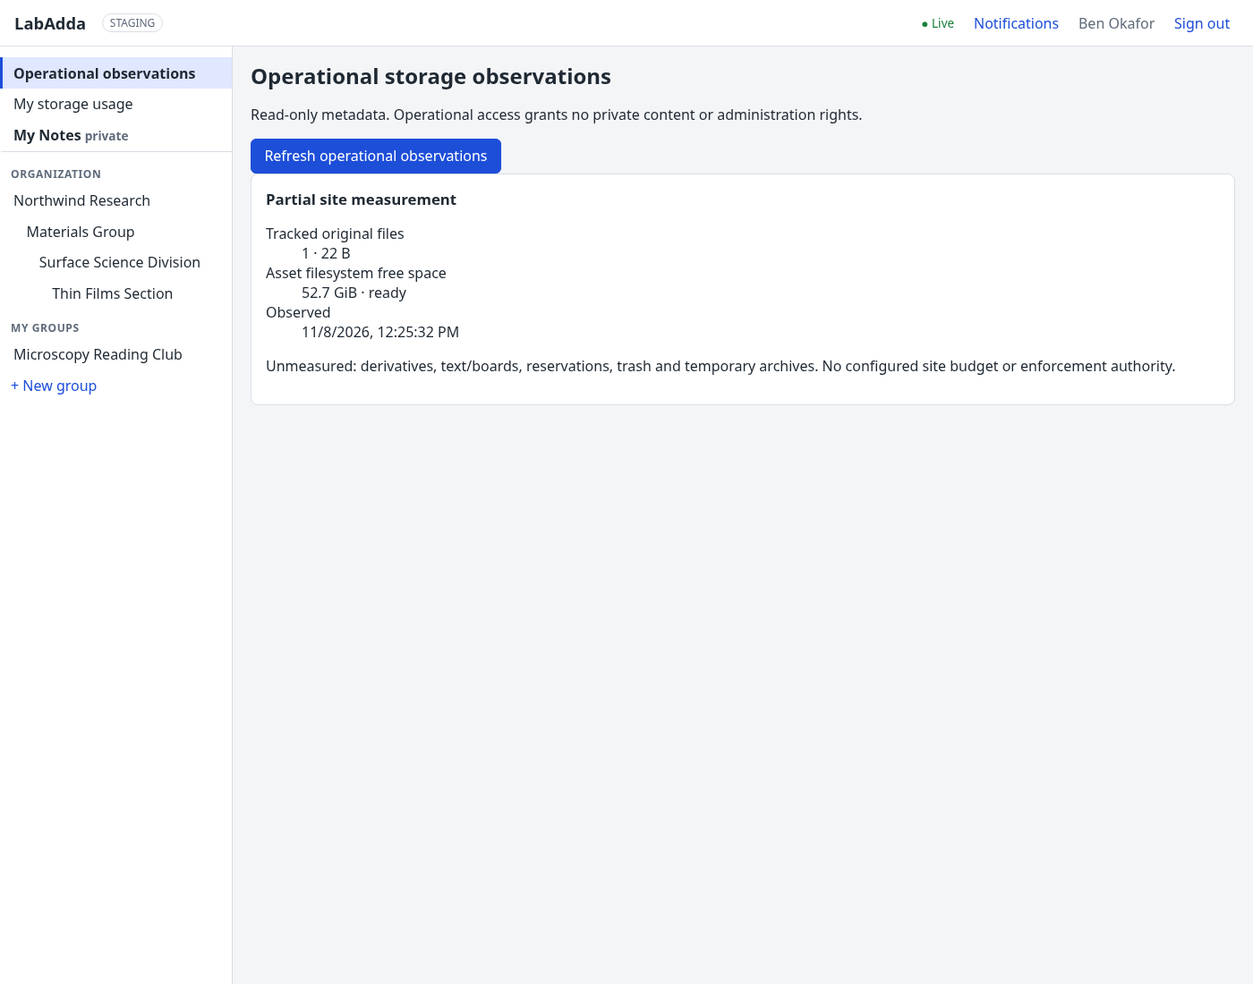
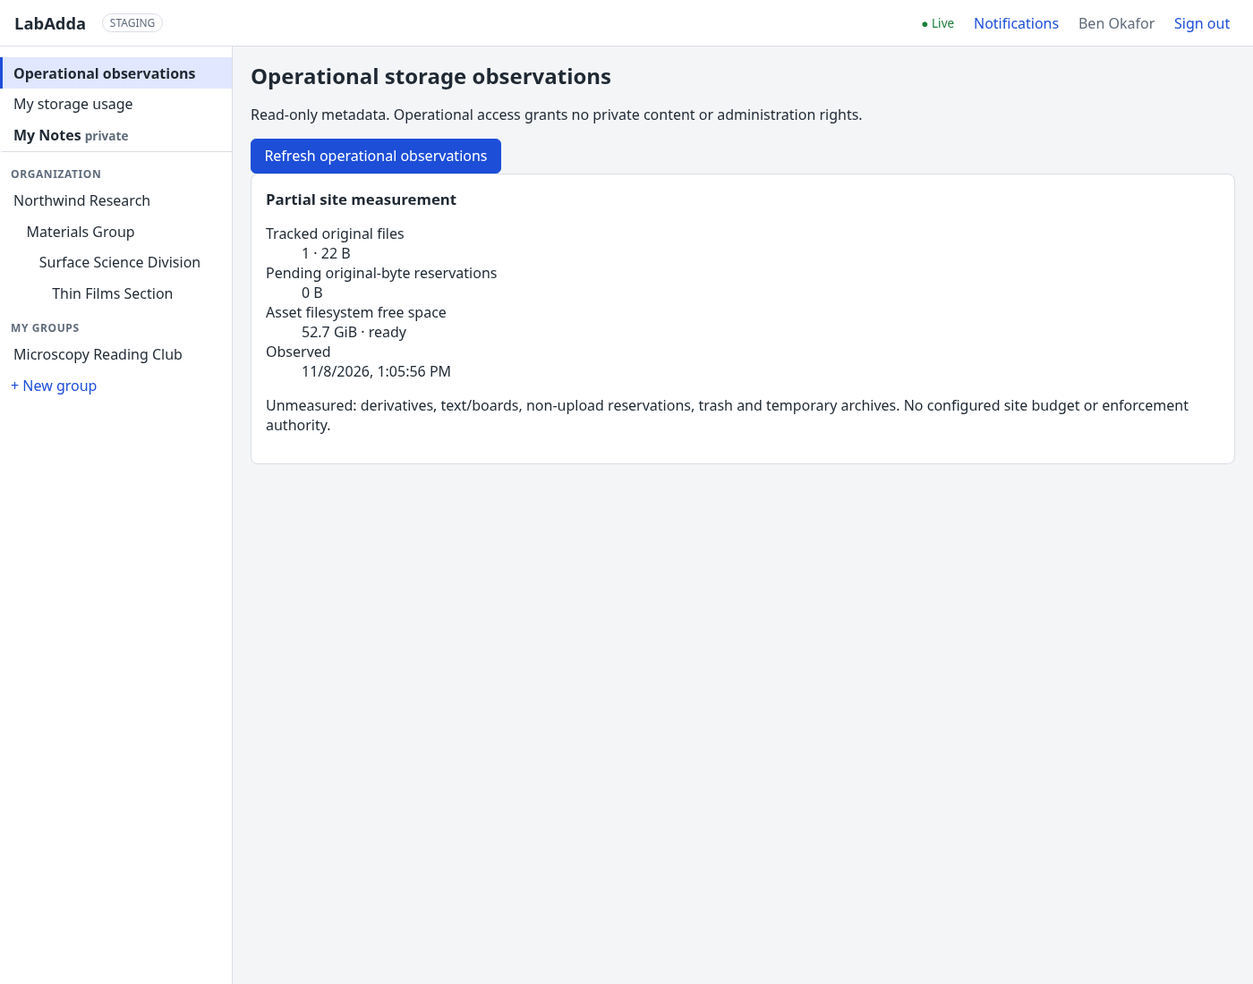
fix: enforce snapshot original-byte admission and durable asset publication

Changed region(s): [[0.215, 0.2782, 0.9521, 0.4327]]

diff --git a/backend/labadda/api/board.py b/backend/labadda/api/board.py
@@ -25,8 +25,11 @@ from sqlalchemy.orm import Session
 
 from .. import audit, policy
 from ..boardstate import epoch_ops, latest_snapshot, render_png, state_at, state_cache, undo_target
-from ..deps import Actor, board_actor, current_actor, get_db
-from ..errors import Conflict, Forbidden, Invalid, NotFound
+from ..deps import Actor, board_actor, current_actor, get_db, get_settings
+from ..errors import ApiError, Conflict, Forbidden, Invalid, NotFound
+from ..config import Settings
+from ..identity_locks import lock_identity
+from ..reservations import check_original_capacity
 from ..models import Asset, Board, BoardOp, Post, Workspace
 from ..serialize import iso
 from ..storage import AssetStore
@@ -304,7 +307,13 @@ def list_destinations(workspace_id: uuid.UUID, actor: Actor = Depends(current_ac
 
 @router.post("/workspaces/{workspace_id}/board/snapshots", status_code=201)
 def publish_snapshot(workspace_id: uuid.UUID, body: SnapshotBody, request: Request,
-                     actor: Actor = Depends(current_actor), db: Session = Depends(get_db)):
+                     actor: Actor = Depends(current_actor), db: Session = Depends(get_db),
+                     settings: Settings = Depends(get_settings)):
+    from types import SimpleNamespace
+    identity = SimpleNamespace(id=actor.id, session=SimpleNamespace(id=actor.session.id))
+    # Generated originals share the same user serialization as upload admission.
+    # This synchronous endpoint already runs in a worker thread.
+    lock_identity(db, identity, settings)
     # Fresh authorization on both ends at publish time.
     source = policy.require_read(db, actor.user, workspace_id).workspace
     existing = db.scalar(select(Post).where(Post.author_id == actor.id, Post.client_id == body.client_id))
@@ -312,6 +321,7 @@ def publish_snapshot(workspace_id: uuid.UUID, body: SnapshotBody, request: Reque
         if existing.source_workspace_id != workspace_id or existing.workspace_id != body.destination_id \
                 or existing.source_revision != body.revision or existing.body != body.summary:
             raise Conflict("client_id_reused", "This request ID was already used for different content.")
+        policy.require_read(db, actor.user, existing.workspace_id)
         return {"post_id": str(existing.id), "workspace_id": str(existing.workspace_id), "duplicate": True}
     allowed = {w.id for w in snapshot_destinations(db, actor, source)}
     if body.destination_id not in allowed:
@@ -321,10 +331,16 @@ def publish_snapshot(workspace_id: uuid.UUID, body: SnapshotBody, request: Reque
         raise Invalid("confirmation_required",
                       f"Confirm that everyone who can read {dest.name} will see this snapshot.")
     png = _render(db, request, workspace_id, body.revision, body.region)
+    check_original_capacity(db, identity, settings, len(png))
     store: AssetStore = request.app.state.assets
     stored = store.save(png, "image/png")
+    candidate_id = uuid.uuid4()
+    commit_started = False
     try:
-        post = Post(workspace_id=dest.id, author_id=actor.id, kind="discussion", body=body.summary,
+        # Time-based session expiry can pass while render/storage runs even
+        # though revocation updates are serialized by the held row locks.
+        lock_identity(db, identity, settings)
+        post = Post(id=candidate_id, workspace_id=dest.id, author_id=actor.id, kind="discussion", body=body.summary,
                     client_id=body.client_id, source_workspace_id=source.id, source_revision=body.revision)
         db.add(post)
         db.flush()
@@ -334,10 +350,30 @@ def publish_snapshot(workspace_id: uuid.UUID, body: SnapshotBody, request: Reque
         audit.record(db, actor=actor.user, action="board.snapshot_publish", scope_type="workspace",
                      scope_id=dest.id, target_id=post.id, source=source.id, revision=body.revision,
                      broader=dest.id != source.id)
+        db.flush()
+        lock_identity(db, identity, settings)
+        commit_started = True
         db.commit()
     except Exception:
         db.rollback()
-        store.delete(stored.storage_key)
-        raise
-    request.app.state.hub.publish(dest.id, {"type": "noticeboard.changed", "workspace_id": str(dest.id)})
-    return {"post_id": str(post.id), "workspace_id": str(dest.id), "duplicate": False}
+        if not commit_started:
+            store.delete(stored.storage_key)
+            raise
+        confirmed = False
+        try:
+            with request.app.state.session_factory() as fresh:
+                durable = fresh.get(Post, candidate_id)
+                if durable is not None:
+                    user = lock_identity(fresh, identity, settings)
+                    policy.require_read(fresh, user, workspace_id)
+                    policy.require_read(fresh, user, body.destination_id)
+                    confirmed = True
+        except ApiError:
+            raise
+        except Exception:
+            pass
+        if not confirmed:
+            raise ApiError('snapshot_commit_unknown', 'Snapshot outcome is uncertain. Storage was retained for inspection; check the noticeboard before retrying.', status=503)
+    destination_id = body.destination_id
+    request.app.state.hub.publish(destination_id, {"type": "noticeboard.changed", "workspace_id": str(destination_id)})
+    return {"post_id": str(candidate_id), "workspace_id": str(destination_id), "duplicate": False}

diff --git a/backend/tests/test_snapshot_admission.py b/backend/tests/test_snapshot_admission.py
@@ -1,0 +1,111 @@
+"""Generated original assets share pilot admission and uncertain-commit safety."""
+from dataclasses import replace
+from datetime import timedelta
+
+from fastapi.testclient import TestClient
+from sqlalchemy import func, select
+
+from labadda.app import create_app
+from labadda.models import Asset, Post, UploadReservation
+from labadda.security import utcnow
+from tests.conftest import Api
+from tests.test_board_p3 import publish
+from tests.test_chat_board import stroke
+
+
+def test_snapshot_cannot_bypass_a_tiny_original_quota(settings, ids, db_factory):
+    with TestClient(create_app(replace(settings,user_quota_bytes=1))) as client:
+        ben=Api(client,settings.api_prefix);assert ben.login('ben').status_code==200
+        w=ids['workspaces']['section_a']
+        assert ben.post(f'/workspaces/{w}/board/ops',json=stroke('snapshot-quota-stroke','fixture-line')).status_code==200
+        refused=publish(ben,w,w,1)
+        assert refused.status_code==422 and refused.json()['error']['code']=='quota_exceeded'
+    with db_factory() as db:
+        assert db.scalar(select(func.count()).select_from(Asset))==0
+        assert db.scalar(select(func.count()).select_from(Post))==0
+
+
+def test_pending_upload_capacity_is_respected_by_snapshot(as_user, settings, ids, db_factory):
+    ben=as_user('ben');w=ids['workspaces']['section_a']
+    assert ben.post(f'/workspaces/{w}/board/ops',json=stroke('snapshot-pending-stroke','fixture-line')).status_code==200
+    with db_factory() as db:
+        db.add(UploadReservation(user_id=ids['users']['ben'],bytes=settings.user_quota_bytes,
+            created_at=utcnow(),expires_at=utcnow()+timedelta(minutes=10)));db.commit()
+    refused=publish(ben,w,w,1)
+    assert refused.status_code==422 and refused.json()['error']['code']=='quota_exceeded'
+
+
+def test_snapshot_lost_commit_reply_preserves_published_bytes(as_user, ids, app, db_factory, monkeypatch):
+    from sqlalchemy.orm import Session
+    ben=as_user('ben');w=ids['workspaces']['section_a']
+    assert ben.post(f'/workspaces/{w}/board/ops',json=stroke('snapshot-commit-stroke','fixture-line')).status_code==200
+    original=Session.commit
+    def commit_then_fail(db):
+        publishing=any(isinstance(row,Post) for row in db.identity_map.values())
+        original(db)
+        if publishing: raise RuntimeError('synthetic lost snapshot commit reply')
+    monkeypatch.setattr(Session,'commit',commit_then_fail)
+    response=publish(ben,w,w,1)
+    assert response.status_code==201
+    with db_factory() as db:
+        asset=db.scalar(select(Asset).where(Asset.post_id==response.json()['post_id']))
+        assert asset is not None
+        assert app.state.assets.path(asset.storage_key).is_file()
+    assert publish(ben,w,w,1).json()['duplicate']
+
+
+def test_snapshot_unknown_commit_retains_unconfirmed_files(as_user, ids, app, db_factory, monkeypatch):
+    from sqlalchemy.orm import Session
+    ben=as_user('ben');w=ids['workspaces']['section_a']
+    assert ben.post(f'/workspaces/{w}/board/ops',json=stroke('snapshot-unknown-stroke','fixture-line')).status_code==200
+    original=Session.commit
+    def fail(db):
+        if any(isinstance(row,Post) for row in db.identity_map.values()):
+            raise RuntimeError('synthetic unknown snapshot commit')
+        original(db)
+    monkeypatch.setattr(Session,'commit',fail)
+    response=publish(ben,w,w,1)
+    assert response.status_code==503 and response.json()['error']['code']=='snapshot_commit_unknown'
+    assert list(app.state.settings.asset_dir.rglob('*.bin'))
+    with db_factory() as db:
+        assert db.scalar(select(func.count()).select_from(Post))==0
+
+
+def test_expiry_during_snapshot_storage_prevents_publish(as_user, ids, app, db_factory, monkeypatch):
+    from labadda import security
+    from datetime import timedelta
+    ben=as_user('ben');w=ids['workspaces']['section_a']
+    assert ben.post(f'/workspaces/{w}/board/ops',json=stroke('snapshot-expiry-stroke','fixture-line')).status_code==200
+    original=app.state.assets.save
+    def expire(*args):
+        stored=original(*args)
+        future=security.utcnow()+timedelta(days=1)
+        monkeypatch.setattr(security,'utcnow',lambda:future)
+        return stored
+    monkeypatch.setattr(app.state.assets,'save',expire)
+    assert publish(ben,w,w,1).status_code==401
+    with db_factory() as db:
+        assert db.scalar(select(func.count()).select_from(Post))==0
+        assert db.scalar(select(func.count()).select_from(Asset))==0
+    assert not list(app.state.settings.asset_dir.rglob('*.bin'))
+
+
+def test_asset_publication_syncs_new_directory_ancestry(tmp_path, monkeypatch):
+    import os
+    import stat
+    from pathlib import Path
+    from labadda.storage import AssetStore
+    root=tmp_path/'new-assets'
+    store=AssetStore(root)
+    synced=set()
+    original=os.fsync
+    def track(fd):
+        if stat.S_ISDIR(os.fstat(fd).st_mode):
+            synced.add(Path(os.readlink(f'/proc/self/fd/{fd}')).resolve())
+        return original(fd)
+    monkeypatch.setattr(os,'fsync',track)
+    stored=store.save(b'%PDF-1.4\nfixture\n%%EOF','application/pdf')
+    assert store.path(stored.storage_key).parent.resolve() in synced
+    assert root.resolve() in synced
+    assert tmp_path.resolve() in synced
+    assert store.path(stored.storage_key).stat().st_mode & 0o777 == 0o600

diff --git a/backend/labadda/reservations.py b/backend/labadda/reservations.py
@@ -14,8 +14,8 @@ from .security import utcnow
 RESERVATION_SECONDS = 600
 
 
-def reserve_upload(db, actor, settings, size):
-    lock_identity(db, actor, settings)
+def check_original_capacity(db, actor, settings, size):
+    """Caller must hold the user identity lock through its Asset commit."""
     now = utcnow()
     # Only metadata expires here; do not guess which filesystem paths are safe
     # to delete after an interrupted worker. Orphan reconciliation is separate.
@@ -25,7 +25,13 @@ def reserve_upload(db, actor, settings, size):
     pending = db.scalar(select(func.coalesce(func.sum(UploadReservation.bytes),0)).where(
         UploadReservation.user_id == actor.id, UploadReservation.expires_at > now))
     if used + pending + size > settings.user_quota_bytes:
-        raise Invalid('quota_exceeded', 'Your upload allowance is exhausted, including pending uploads. Retry after they finish or contact an administrator.')
+        raise Invalid('quota_exceeded', 'Your original-file allowance is exhausted, including pending uploads. Retry after they finish or contact an administrator.')
+
+
+def reserve_upload(db, actor, settings, size):
+    lock_identity(db, actor, settings)
+    check_original_capacity(db, actor, settings, size)
+    now = utcnow()
     row = UploadReservation(user_id=actor.id, bytes=size, created_at=now,
                             expires_at=now+timedelta(seconds=RESERVATION_SECONDS))
     db.add(row); db.flush(); reservation_id = row.id

diff --git a/backend/labadda/storage.py b/backend/labadda/storage.py
@@ -70,6 +70,11 @@ class AssetStore:
             has_preview = True
         key = secrets.token_urlsafe(24)
         target = self.path(key)
+        missing_directories = []
+        directory = target.parent
+        while not directory.exists():
+            missing_directories.append(directory)
+            directory = directory.parent
         target.parent.mkdir(parents=True, exist_ok=True)
         tmp = target.with_suffix(".tmp")
         owned = []
@@ -89,11 +94,15 @@ class AssetStore:
                 owned.append(preview)
                 with os.fdopen(fd, "wb") as stream:
                     stream.write(preview_bytes); stream.flush(); os.fsync(stream.fileno())
-            directory = os.open(target.parent, os.O_RDONLY | os.O_DIRECTORY)
-            try:
-                os.fsync(directory)
-            finally:
-                os.close(directory)
+            # Sync both file entries and each newly created directory's entry
+            # in its parent, up through the previously existing ancestor.
+            directories = [target.parent, *(path.parent for path in missing_directories)]
+            for path in dict.fromkeys(directories):
+                directory = os.open(path, os.O_RDONLY | os.O_DIRECTORY)
+                try:
+                    os.fsync(directory)
+                finally:
+                    os.close(directory)
         except Exception:
             for path in reversed(owned):
                 try:

diff --git a/backend/labadda/models.py b/backend/labadda/models.py
@@ -245,6 +245,7 @@ class Asset(Base):
         CheckConstraint("status = 'provisional' or post_id is not null or board_workspace_id is not null",
                         name="ck_asset_committed_owner"),
         CheckConstraint("post_id is null or board_workspace_id is null", name="ck_asset_single_owner"),
+        Index("ix_assets_owner", "owner_id"),
         Index("ix_assets_post", "post_id"),
         Index("ix_assets_board", "board_workspace_id"),
     )

diff --git a/backend/labadda/api/files.py b/backend/labadda/api/files.py
@@ -74,6 +74,7 @@ def _persist_upload(request, db, actor, settings, data, content_type, filename):
                       sha256=stored.sha256, has_preview=stored.has_preview)
         db.add(asset)
         db.flush()
+        lock_identity(db, identity, settings)
         commit_started = True
         db.commit()
         return asset_json(asset, settings.api_prefix)

diff --git a/backend/migrations/versions/0011_asset_owner_index.py b/backend/migrations/versions/0011_asset_owner_index.py
@@ -1,0 +1,14 @@
+"""Index original-byte admission by stable contributor identity."""
+from alembic import op
+revision = '0011'
+down_revision = '0010'
+branch_labels = None
+depends_on = None
+
+
+def upgrade():
+    op.create_index('ix_assets_owner','assets',['owner_id'])
+
+
+def downgrade():
+    op.drop_index('ix_assets_owner',table_name='assets')

diff --git a/ROADMAP.md b/ROADMAP.md
@@ -82,3 +82,4 @@ Add an entry at the end of each meaningful tranche. Mark status as planned, acti
 | P5.1 · Referenced-file reconciliation · implemented | Added bounded operator CLI inspection, schema 0008 receipt/audit, admin API/UI, original size/hash verification and separate preview-byte measurement. Eight inspection tests plus timestamp regression pass; full suite 207 backend tests, recovery/drift, 11 frontend tests/build and 20 root/prefix browser checks passed. | Preview integrity, live snapshot consistency, orphan enumeration, full ledger/reservations and policy activation remain explicitly unverified/unimplemented. No repair/purge. Time bound is cooperative. | Continue capability separation and durable ledger work within P5.1, retaining inactive enforcement. |
 | P5.1 · Narrow operational capability · implemented | Added explicit expiring usage.read delegations with admin password confirmation, reason/audit, CSRF and rate limits; observers receive metadata only and cannot administer identities/policies or read private notes/files. Web grant/revoke and Operations page work at root/prefix. Compatible actor-row locking avoids grant/identity-update FK deadlocks; active-first listing and selected-account revoke prevent hidden active grants. Recovery clears copied delegations. Full serial validation: 214 backend tests with real recovery/drift, 11 frontend tests/build; 18 governance plus 12 delegation browser checks passed. | Only one narrow capability is implemented; general capability/approval framework and complete accounting remain future gates. Current pilot quotas are unchanged. Development/research instances migrated to head 0009 and restarted without resetting their data. | Continue transactional reservation/ledger foundations and reconciliation within P5.1 before portable export and enforcement gates. |
 | P5.1 · Pending upload admission · implemented | Added schema 0010 pending original-byte reservations under identity serialization, same-snapshot usage reporting, expiry and post-storage authority checks, atomic reservation-to-Asset transition, worker-thread persistence and recovery clearing. Hardened partial filesystem writes/no-clobber publication and uncertain-commit handling. Ten admission regressions; full suite 224 backend, recovery/drift, 11 frontend tests/build; root/prefix governance18 and delegation12 browser checks passed. | Existing pilot quota only. Generated snapshots, all other content classes, site/derivative budgets, idempotency keys and orphan reconciliation are still outside this protocol. No new proposed-policy enforcement or retention. | Bring generated snapshots into original-byte admission, then continue full ledger/reconciliation before P5.2 dependencies. |
+| P5.1 · Generated-original admission · implemented | Published board snapshots now serialize original-byte admission with uploads, account for pending reservations, recheck session expiry after storage/precommit and preserve uncertain committed bytes. Added contributor index0011 and durable directory ancestry synchronization. Six new focused cases; full suite230 backend/recovery/drift,11 frontend/build; 101 root/prefix browser checks across governance/delegation/collaboration/receipts passed. [Current status](docs/P5-PROGRESS.md). | Full ledger, physical/site/derivative/text accounting, idempotency keys and complete reconciliation remain open. Proposed policies and retention remain inactive. No general membership-lock redesign is claimed. | Continue original-write idempotency and complete P5.1 accounting/capability gates before P5.2 portable archives. |

diff --git a/docs/P5-PROGRESS.md b/docs/P5-PROGRESS.md
@@ -38,3 +38,11 @@ Final capability-slice validation: **214 backend tests**, real recovery and migr
 Schema 0010 adds durable pending reservations for the existing environment-controlled upload allowance. Measured bytes reserve before storage, then atomically become Asset bytes; expiry/revocation checks precede commit. The user sees pending originals separately. Ten upload-admission tests cover parallel oversubscription, invalid input, stale/expiring reservations, lost sessions, definite pre-commit rollback, successful commits with lost replies, unknown outcomes, partial preview writes and no-clobber storage collisions. Filesystem and DB work run in a worker thread; current identity locking is shared with governance without granting administration rights.
 
 Validation: full serial suite **224 backend tests**, real PostgreSQL recovery/drift checks, **11 frontend tests**, production build, 18 governance and 12 delegation browser checks passed. Recovery now verifies copied pending capacity is cleared alongside operational grants. These are upload-versus-upload guarantees only: board-generated snapshots, full physical/derivative/text/site charging, upload idempotency keys and orphan reconciliation remain incomplete. An unconfirmed commit never licenses unlinking possibly committed data; inspect the retained state before retrying.
+
+## Generated snapshots and durable storage publication
+
+Published board snapshots now join original-byte admission under the same user lock and include pending upload bytes. This supersedes the prior upload-only writer limitation: both current Asset creation paths participate in the environment-controlled original-byte allowance. Existing snapshot retries retain their current destination-read check. Session validity is checked after render/storage and just before commit; a slow operation cannot rely only on its initial authentication. Snapshot commit uncertainty follows the same conservative file-retention principle as uploads. This is not full logical/physical accounting, new proposed-policy enforcement or a general membership-lock redesign.
+
+Schema 0011 indexes originals by contributor. Storage publication fsyncs newly created directory ancestry as well as the file/shard and refuses to clobber existing objects. Six focused snapshot/storage tests cover tiny quota, active pending uploads, lost/unknown commit replies, expiry during storage and actual directory synchronization. Full validation passed **230 backend tests**, recovery/drift, **11 frontend tests** and production build. Final authority-guard additions also passed the 16 focused snapshot/upload regressions on a separately provisioned disposable database. Browser evidence passed **18 governance + 12 capability + 69 existing collaboration/touch + 2 operator-receipt checks** at root/prefix; no hosted-CI completion is claimed. The development and research instances were migrated to head 0011 and preserve their synthetic content.
+
+P5.1 remains incomplete: complete canonical text/board/derivative/site accounting, durable reconciliation/repair authority, broader capability workflows and upload idempotency keys are outstanding. Do not skip these gates to activate retention or claim that P5.2 archives are implemented.

diff --git a/docs/API.md b/docs/API.md
@@ -96,3 +96,5 @@ User web entry: `/operations`. Site administration adds the password-confirmed g
 Reservation, filesystem and finalization work run sequentially in a worker rather than blocking the ASGI event loop on synchronous locks/Pillow. Storage writes use exclusive temporary/preview creation, no-clobber publication and fsync, with cleanup of this attempt's partial paths only. Definite pre-commit failures release capacity; a lost commit reply is checked through a fresh connection and current identity. A confirmed durable Asset can complete the request. An absent/unavailable confirmation returns `upload_commit_unknown` (503), retains uncertain bytes and capacity conservatively, and requires inspection rather than blind retry. A client/process crash may leave private unreferenced files; automatic orphan deletion is not implemented.
 
 This slice protects upload-versus-upload admission. Generated board snapshots still use their existing writer path and are not yet covered by the reservation/identity protocol. No complete site/derivative/text budget, upload idempotency-key API or full quota-ledger reconciliation is claimed.
+
+Published board snapshots now use the same user-identity serialization and original-byte capacity check as uploads, including active upload reservations. Their synchronous endpoint remains in a worker. Current identity/session validity is rechecked after storage and immediately before commit, and duplicate results require current destination read access. Definite pre-commit failures remove only unpublished files; lost replies are confirmed through a fresh Post read and current access. Unconfirmed outcomes return `snapshot_commit_unknown` (503) and retain bytes. This closes the generated-original writer gap recorded in the previous slice; it does not activate site/derivative/text budgets or complete the future policy engine. Schema 0011 adds the contributor index used by original-byte admission.

diff --git a/docs/DATA-LIFECYCLE.md b/docs/DATA-LIFECYCLE.md
@@ -1,6 +1,6 @@
 # Data lifecycle, quotas and retention — future implementation contract
 
-Status: **specified, not implemented**, 2026-11-08. This is the normative extension of S2–S4 for P5. Requirements use MUST for release gates and SHOULD for defaults that may change only with recorded justification. [Archive format](ARCHIVE-FORMAT.md), [admin console](ADMIN-CONSOLE.md) and the acceptance matrix in TESTING.md are part of this contract. Existing pilot configuration remains unchanged until a tested migration activates the new policy engine.
+Status: **normative P5 requirements**, 2026-11-08. Partial implemented foundations are tracked in [P5-PROGRESS.md](P5-PROGRESS.md); the full lifecycle contract is not implemented. This is the normative extension of S2–S4 for P5. Requirements use MUST for release gates and SHOULD for defaults that may change only with recorded justification. [Archive format](ARCHIVE-FORMAT.md), [admin console](ADMIN-CONSOLE.md) and the acceptance matrix in TESTING.md are part of this contract. Existing pilot configuration remains unchanged until a tested migration activates the new policy engine.
 
 ## Purpose and boundaries
 

diff --git a/docs/ADMIN-CONSOLE.md b/docs/ADMIN-CONSOLE.md
@@ -1,6 +1,6 @@
 # Administration, observability and policy safety — future contract
 
-Status: **specified for later phases, not existing functionality**. Builds on S2, DATA-LIFECYCLE.md and RECOVERY.md. The goal is a complete operational view with safe actions, not an unrestricted content browser.
+Status: **normative later-phase contract**. Partial observation/proposal/delegation views exist; [P5-PROGRESS.md](P5-PROGRESS.md) records their limits. The full operational console is not implemented. Builds on S2, DATA-LIFECYCLE.md and RECOVERY.md. The goal is a complete operational view with safe actions, not an unrestricted content browser.
 
 ## Roles and access
 
